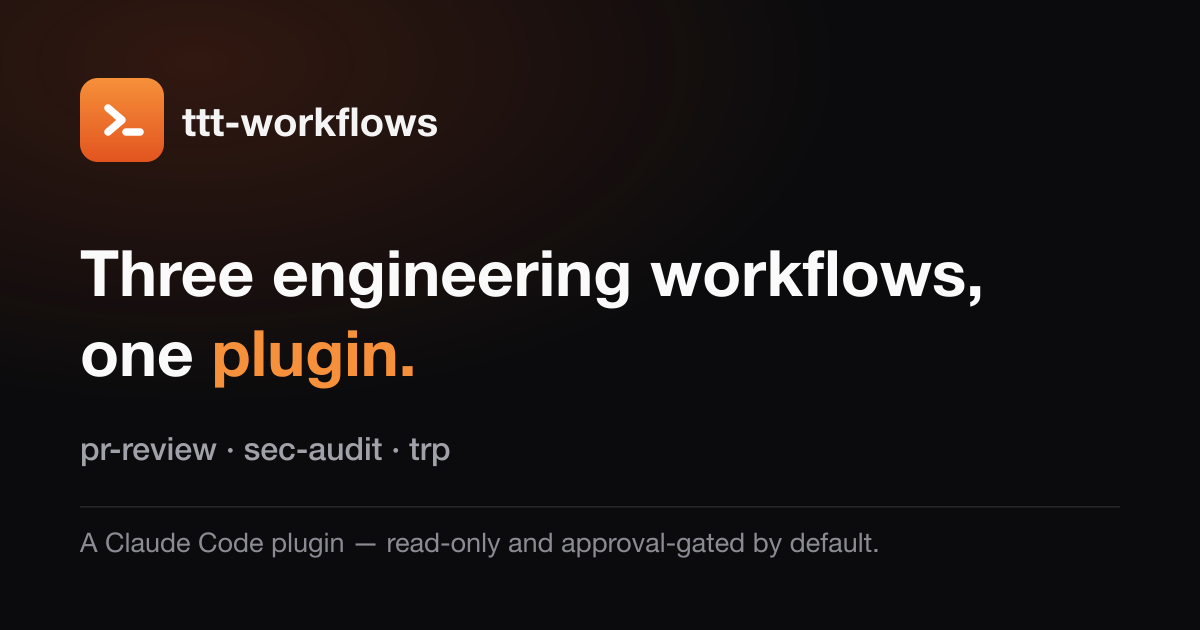
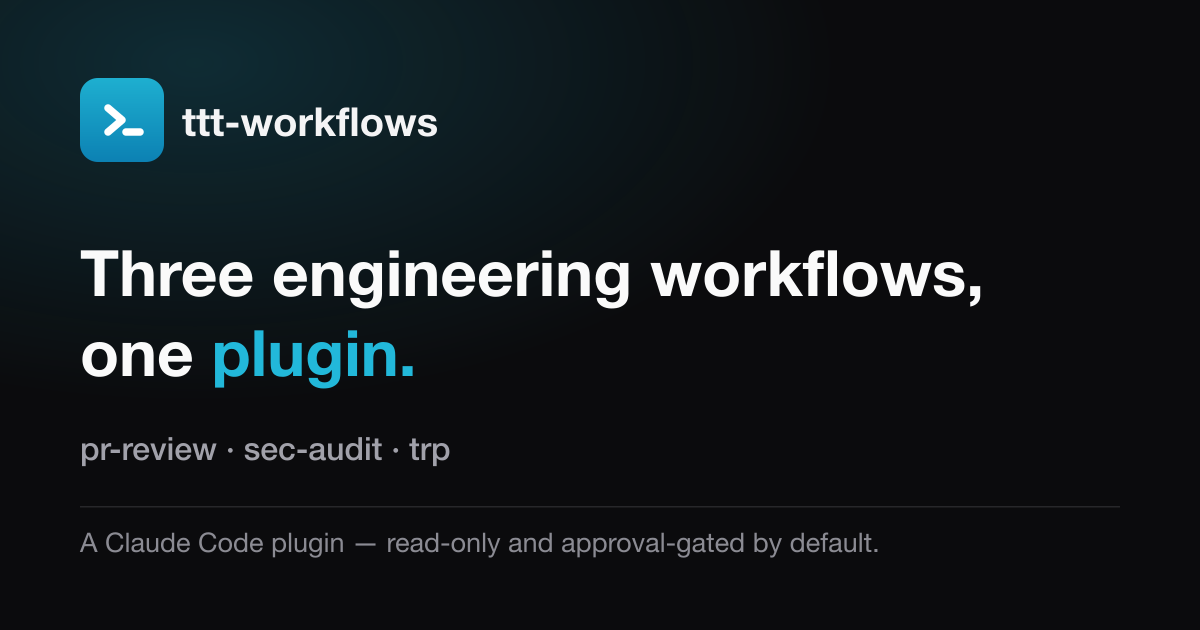
style(website): Recolor the theme from orange to a cyan-azure accent
Swap the inherited product's warm accent for a cooler, more technical one that
suits the engineering skills and pairs with the terminal mockups.

- global.css: primary/ring/foreground and lightly-tinted neutrals moved to a
  cyan-azure hue (oklch ~215), light and dark both retuned
- the brand marks and the "plugin." headline gradient move to matching cyan
- the pr-review mockup's warn dot shifts to a clearer amber so severity reads
  distinctly from the accent
- favicon, icon set, og image, and manifest theme-color regenerated in cyan

Changed region(s): [[0.0, 0.0, 0.3392, 0.2714], [0.1542, 0.5127, 0.3392, 0.6333]]

diff --git a/packages/products/website/src/styles/global.css b/packages/products/website/src/styles/global.css
@@ -11,18 +11,18 @@
 	--card-foreground: oklch(14.5% 0 0deg);
 	--popover: oklch(100% 0 0deg);
 	--popover-foreground: oklch(14.5% 0 0deg);
-	--primary: oklch(64.6% 0.199 41.116deg);
-	--primary-foreground: oklch(98% 0.02 60deg);
-	--secondary: oklch(97% 0 0deg);
-	--secondary-foreground: oklch(20.5% 0 0deg);
-	--muted: oklch(97% 0 0deg);
-	--muted-foreground: oklch(55.6% 0 0deg);
-	--accent: oklch(97% 0 0deg);
-	--accent-foreground: oklch(20.5% 0 0deg);
+	--primary: oklch(58% 0.126 215deg);
+	--primary-foreground: oklch(99% 0.005 215deg);
+	--secondary: oklch(97% 0.004 215deg);
+	--secondary-foreground: oklch(20.5% 0.01 215deg);
+	--muted: oklch(97% 0.004 215deg);
+	--muted-foreground: oklch(52% 0.02 215deg);
+	--accent: oklch(96.5% 0.012 215deg);
+	--accent-foreground: oklch(22% 0.03 215deg);
 	--destructive: oklch(57.7% 0.245 27.325deg);
-	--border: oklch(92.2% 0 0deg);
-	--input: oklch(92.2% 0 0deg);
-	--ring: oklch(64.6% 0.199 41.116deg);
+	--border: oklch(91.5% 0.008 215deg);
+	--input: oklch(91.5% 0.008 215deg);
+	--ring: oklch(58% 0.126 215deg);
 }
 
 .dark {
@@ -32,18 +32,18 @@
 	--card-foreground: oklch(98.5% 0 0deg);
 	--popover: oklch(20.5% 0 0deg);
 	--popover-foreground: oklch(98.5% 0 0deg);
-	--primary: oklch(70% 0.19 45deg);
-	--primary-foreground: oklch(20% 0.05 45deg);
-	--secondary: oklch(26.9% 0 0deg);
+	--primary: oklch(73% 0.13 213deg);
+	--primary-foreground: oklch(19% 0.04 220deg);
+	--secondary: oklch(27% 0.012 220deg);
 	--secondary-foreground: oklch(98.5% 0 0deg);
-	--muted: oklch(26.9% 0 0deg);
-	--muted-foreground: oklch(70.8% 0 0deg);
-	--accent: oklch(26.9% 0 0deg);
+	--muted: oklch(27% 0.012 220deg);
+	--muted-foreground: oklch(72% 0.015 220deg);
+	--accent: oklch(28% 0.02 220deg);
 	--accent-foreground: oklch(98.5% 0 0deg);
 	--destructive: oklch(70.4% 0.191 22.216deg);
 	--border: oklch(100% 0 0deg / 10%);
 	--input: oklch(100% 0 0deg / 15%);
-	--ring: oklch(70% 0.19 45deg);
+	--ring: oklch(73% 0.13 213deg);
 }
 
 @theme inline {
